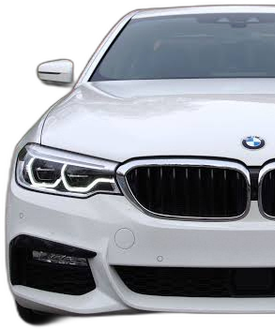
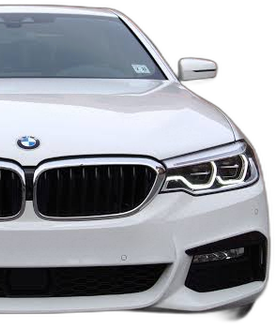
Swap mobil-list cards back to image-right, go big on the category text
Revert to image bleeding from the right with the label on the left,
and make the category word the real focal point: much larger, set in
Playfair Display (a serif display font, echoing the crown logo's
serif wordmark) instead of the body sans-serif, for a more premium
feel.

diff --git a/src/css/components/Explore/CardExplore.css b/src/css/components/Explore/CardExplore.css
@@ -1,7 +1,7 @@
 .container-cardExplore{
     position: relative;
     width: 100%;
-    min-height: 220px;
+    min-height: 240px;
     border-radius: 20px;
     overflow: hidden;
     display: flex;
@@ -27,7 +27,7 @@
 }
 .image-cardExplore{
     position: absolute;
-    left: 0;
+    right: 0;
     top: 0;
     bottom: 0;
     width: 48%;
@@ -37,7 +37,7 @@
     width: 100%;
     height: 100%;
     object-fit: contain;
-    object-position: left center;
+    object-position: right center;
 }
 .info-cardExplore{
     position: relative;
@@ -45,14 +45,22 @@
     width: 100%;
     padding: 1.5rem 1.75rem;
     display: flex;
-    justify-content: flex-end;
+    justify-content: flex-start;
 }
 .category-cardExplore{
-    font-size: 1.6rem;
+    font-family: var(--font-display);
+    font-size: 3rem;
     font-weight: 800;
     color: var(--color-text);
-    line-height: 1.15;
-    text-align: right;
+    line-height: 1.05;
+    text-align: left;
+    max-width: 60%;
+}
+
+@media screen and (max-width:900px){
+    .category-cardExplore{
+        font-size: 2.25rem;
+    }
 }
 
 @media screen and (max-width:640px){
@@ -66,6 +74,7 @@
         padding: 1.1rem 1.25rem;
     }
     .category-cardExplore{
-        font-size: 1.25rem;
+        font-size: 1.6rem;
+        max-width: 65%;
     }
 }

diff --git a/index.html b/index.html
@@ -4,7 +4,7 @@
     
     <link rel="preconnect" href="https://fonts.googleapis.com">
     <link rel="preconnect" href="https://fonts.gstatic.com" crossorigin>
-    <link href="https://fonts.googleapis.com/css2?family=Poppins:ital,wght@0,100;0,200;0,300;0,400;0,500;0,600;0,700;0,800;0,900;1,100;1,200;1,300;1,400;1,500;1,600;1,700;1,800;1,900&family=Roboto:ital,wght@0,100;0,300;0,400;0,500;0,700;0,900;1,100;1,300;1,400;1,500;1,700;1,900&display=swap" rel="stylesheet">
+    <link href="https://fonts.googleapis.com/css2?family=Poppins:ital,wght@0,100;0,200;0,300;0,400;0,500;0,600;0,700;0,800;0,900;1,100;1,200;1,300;1,400;1,500;1,600;1,700;1,800;1,900&family=Roboto:ital,wght@0,100;0,300;0,400;0,500;0,700;0,900;1,100;1,300;1,400;1,500;1,700;1,900&family=Playfair+Display:ital,wght@0,600;0,700;0,800;0,900;1,700&display=swap" rel="stylesheet">
     
     <meta charset="UTF-8" />
     <link rel="icon" type="image/svg+xml" href="./src/assets/crown-logo.svg" />

diff --git a/src/index.css b/src/index.css
@@ -13,6 +13,7 @@
   --color-text-muted: #6B7280;
   --color-border: #E5E7EB;
   --color-footer-bg: #1F1F1F;
+  --font-display: "Playfair Display", serif;
 
   --max-width: 1200px;
 }
